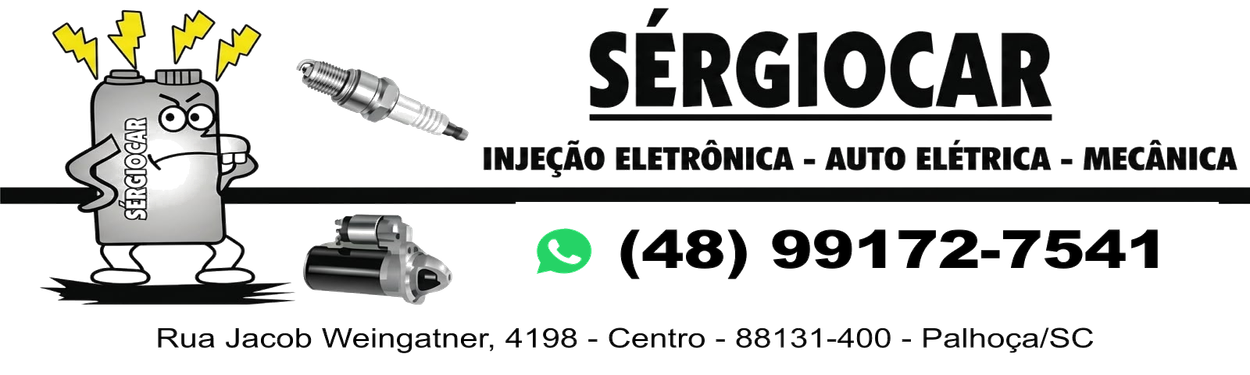
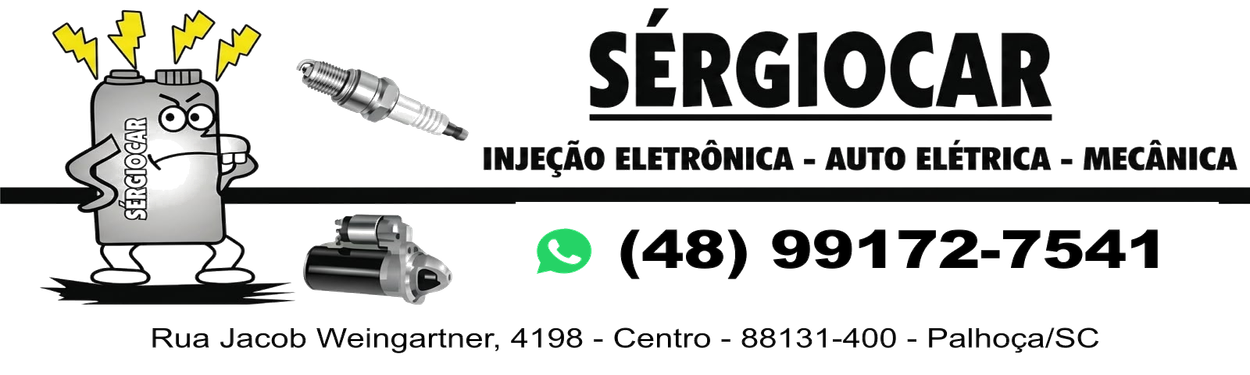
fix: corrigir nome da rua para Rua Jacob Weingartner no cabeçalho e impressões

Changed region(s): [[0.0936, 0.8507, 0.8736, 0.9387]]

diff --git a/scripts/seed-admin.js b/scripts/seed-admin.js
@@ -10,7 +10,7 @@ async function main() {
       name: 'Auto Elétrica Sérgio Car',
       phone: '(48) 99172-7541',
       document: '22.980.022/0001-06',
-      address: 'Rua Jacob Weingatner, 4198 - Centro - CEP 88131-400 - Palhoça/SC',
+      address: 'Rua Jacob Weingartner, 4198 - Centro - CEP 88131-400 - Palhoça/SC',
       ie: '123.456.789',
       im: '987654',
       taxRegime: 'SIMPLES_NACIONAL',
@@ -23,7 +23,7 @@ async function main() {
       name: 'Auto Elétrica Sérgio Car',
       phone: '(48) 99172-7541',
       document: '22.980.022/0001-06',
-      address: 'Rua Jacob Weingatner, 4198 - Centro - CEP 88131-400 - Palhoça/SC',
+      address: 'Rua Jacob Weingartner, 4198 - Centro - CEP 88131-400 - Palhoça/SC',
       ie: '123.456.789',
       im: '987654',
       taxRegime: 'SIMPLES_NACIONAL',

diff --git a/src/app/print/invoices/[id]/page.tsx b/src/app/print/invoices/[id]/page.tsx
@@ -79,7 +79,7 @@ export default async function PrintInvoicePage(props: { params: Promise<{ id: st
           <div className="p-3 grid grid-cols-2 gap-4 text-xs">
             <div>
               <h2 className="font-bold text-sm uppercase">{invoice.tenant.name || 'Auto Elétrica Sérgio Car'}</h2>
-              <p className="text-gray-700 mt-0.5">{invoice.tenant.address || 'Rua Jacob Weingatner, 4198 - Centro - CEP 88131-400 - Palhoça/SC'}</p>
+              <p className="text-gray-700 mt-0.5">{invoice.tenant.address || 'Rua Jacob Weingartner, 4198 - Centro - CEP 88131-400 - Palhoça/SC'}</p>
               <p className="text-gray-700 font-semibold">Telefone: {invoice.tenant.phone || '(48) 99172-7541'}</p>
             </div>
             <div className="space-y-1 font-mono text-xs">

diff --git a/src/app/(app)/settings/page.tsx b/src/app/(app)/settings/page.tsx
@@ -74,7 +74,7 @@ export default async function SettingsPage() {
                 type="text" 
                 name="address"
                 defaultValue={tenant.address || ''}
-                placeholder="Ex: Rua Jacob Weingatner, 4198 - Centro - CEP 88131-400 - Palhoça/SC"
+                placeholder="Ex: Rua Jacob Weingartner, 4198 - Centro - CEP 88131-400 - Palhoça/SC"
                 className="w-full px-3 py-2 bg-white border border-neutral-200 rounded-md text-[13px] text-neutral-900 outline-none focus:border-neutral-400 focus:ring-4 focus:ring-neutral-500/5 transition-all"
               />
             </div>

diff --git a/scripts/generate-header.js b/scripts/generate-header.js
@@ -73,7 +73,7 @@ async function generateHeader() {
 
       <!-- Limpar área do CEP/Endereço antigo e desenhar o novo CEP 88131-400 -->
       <rect x="0" y="475" width="${width}" height="110" fill="#ffffff" />
-      <text x="${width / 2}" y="542" text-anchor="middle" class="address">Rua Jacob Weingatner, 4198 - Centro - 88131-400 - Palhoça/SC</text>
+      <text x="${width / 2}" y="542" text-anchor="middle" class="address">Rua Jacob Weingartner, 4198 - Centro - 88131-400 - Palhoça/SC</text>
     </svg>
   `;
 
